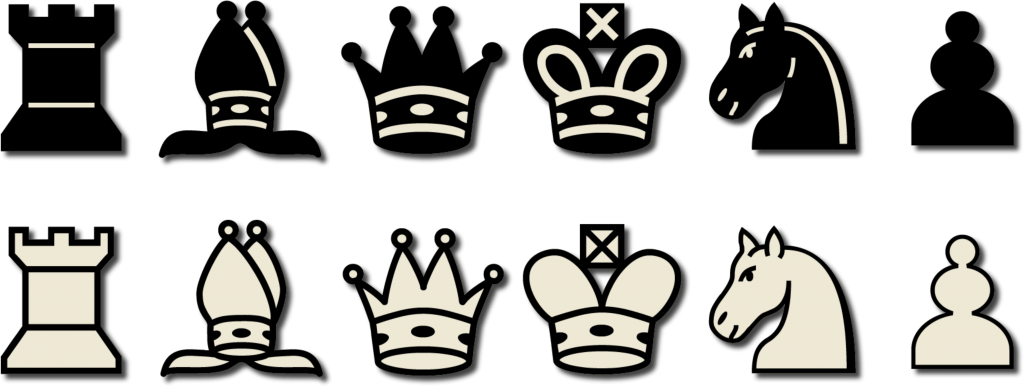
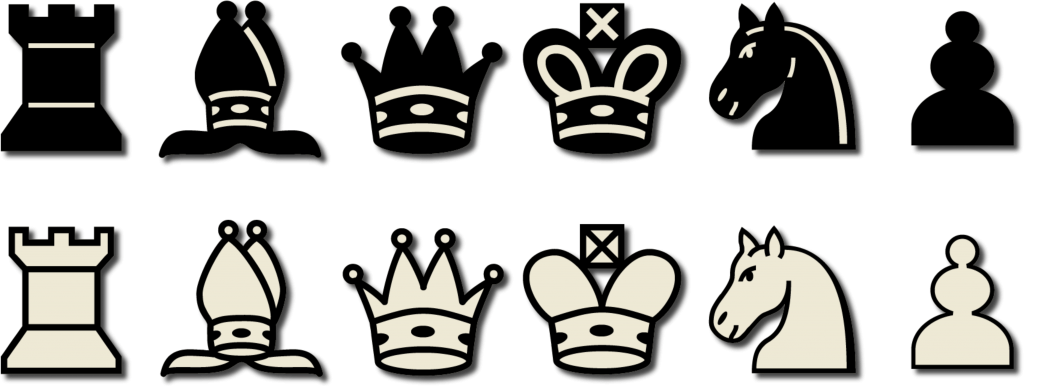
Remove jquery requirement and fix a problem with safari

diff --git a/fendiagram.js b/fendiagram.js
@@ -3,18 +3,18 @@
 function ChessBoard( divname, startingFEN, highlights) {
 
     // Make the board square within the div
-    var div = $('#'+divname);
-    var boardSize = Math.min(div.height(), div.width());
+    var div = document.getElementById(divname);
+    var boardSize = Math.min(div.scrollHeight, div.scrollHeight);
 
     var imageObj = new Image();
     imageObj.board = this;
     imageObj.startingFEN = startingFEN;
 
     // Create the canvas & context for this board
-    var canvtag = '<canvas width="'+boardSize+'" height="'+boardSize+'">';
-    var canvas = $(canvtag)[0];
-    div.append(canvas);
-    this.ctx = canvas.getContext("2d");
+    var canvtag = document.createElement('canvas');
+    canvtag.height = canvtag.width = boardSize; 
+    div.appendChild(canvtag);
+    this.ctx = canvtag.getContext("2d");
 
     // Some values that'll be reused
     this.squarePixels = boardSize/8;
@@ -23,7 +23,7 @@ function ChessBoard( divname, startingFEN, highlights) {
 
     this.iconHeight = 162;
     this.imgLookup = { 'R' : [0, 150],   'B' : [153, 178],  'Q' : [336, 176],
-                       'K' : [515, 176], 'N' : [705, 170],  'P' : [888, 160] }
+                       'K' : [515, 176], 'N' : [705, 170],  'P' : [878, 160] }
 
     this.lightColor = "#FFFFFF";
     this.darkColor = "#CCCCCC";
